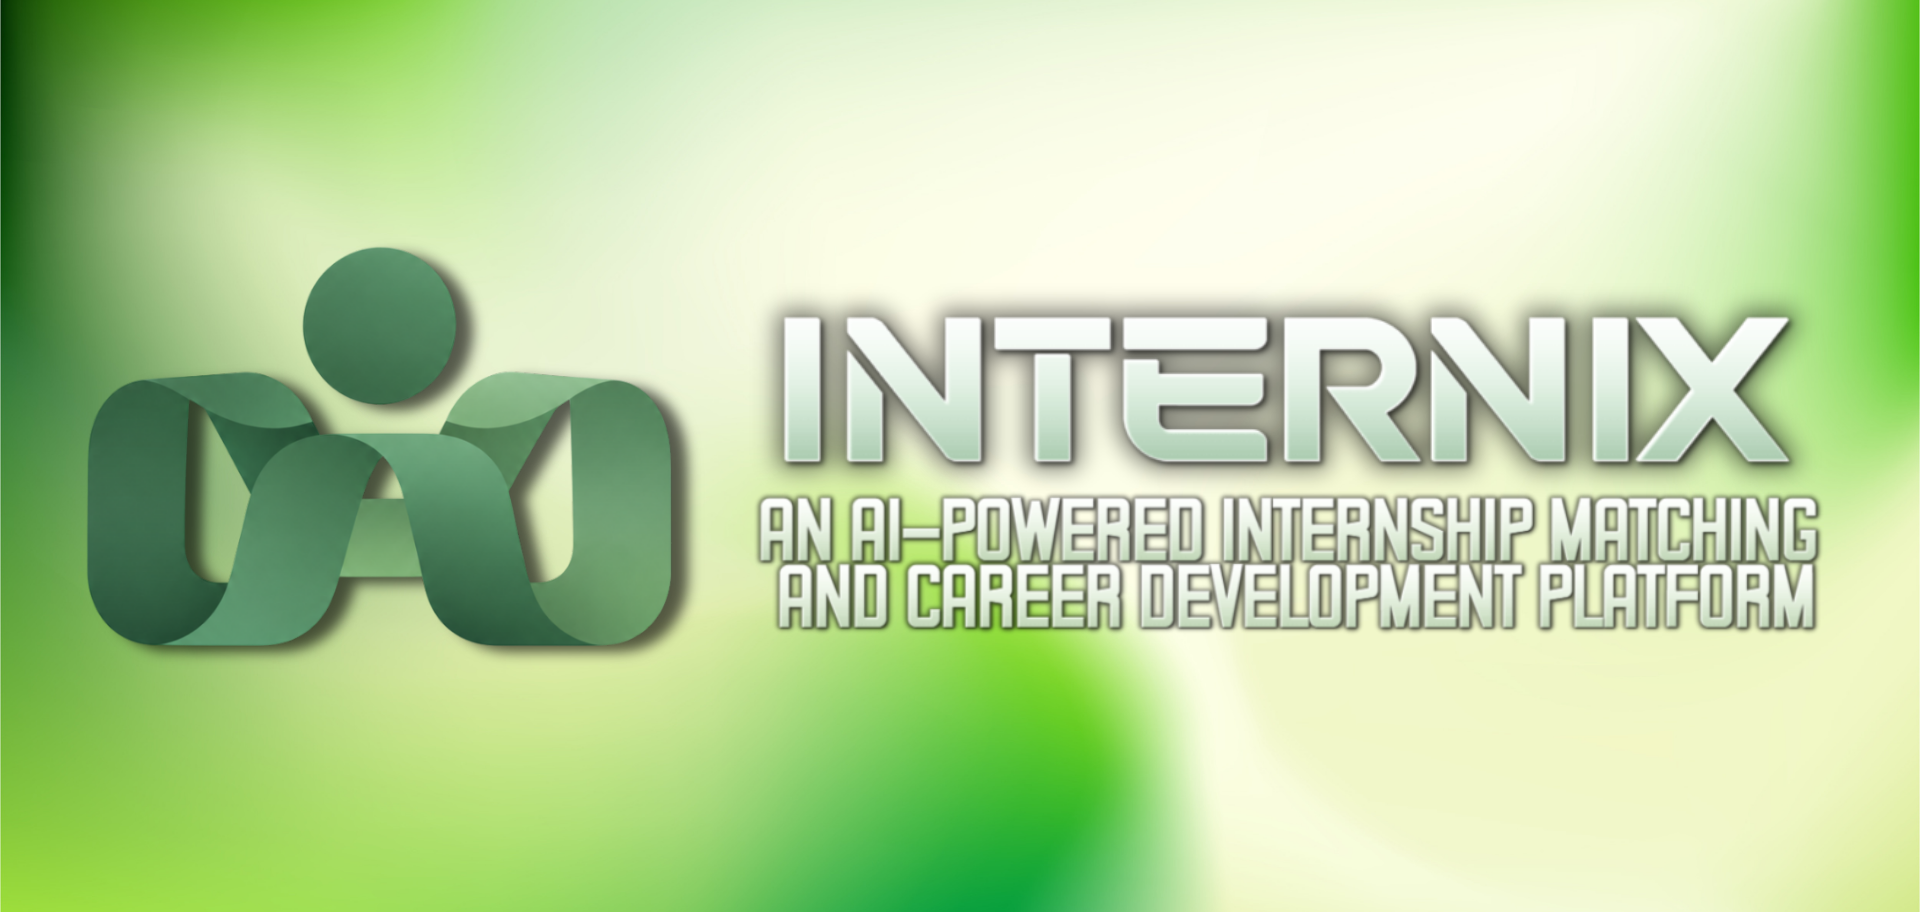
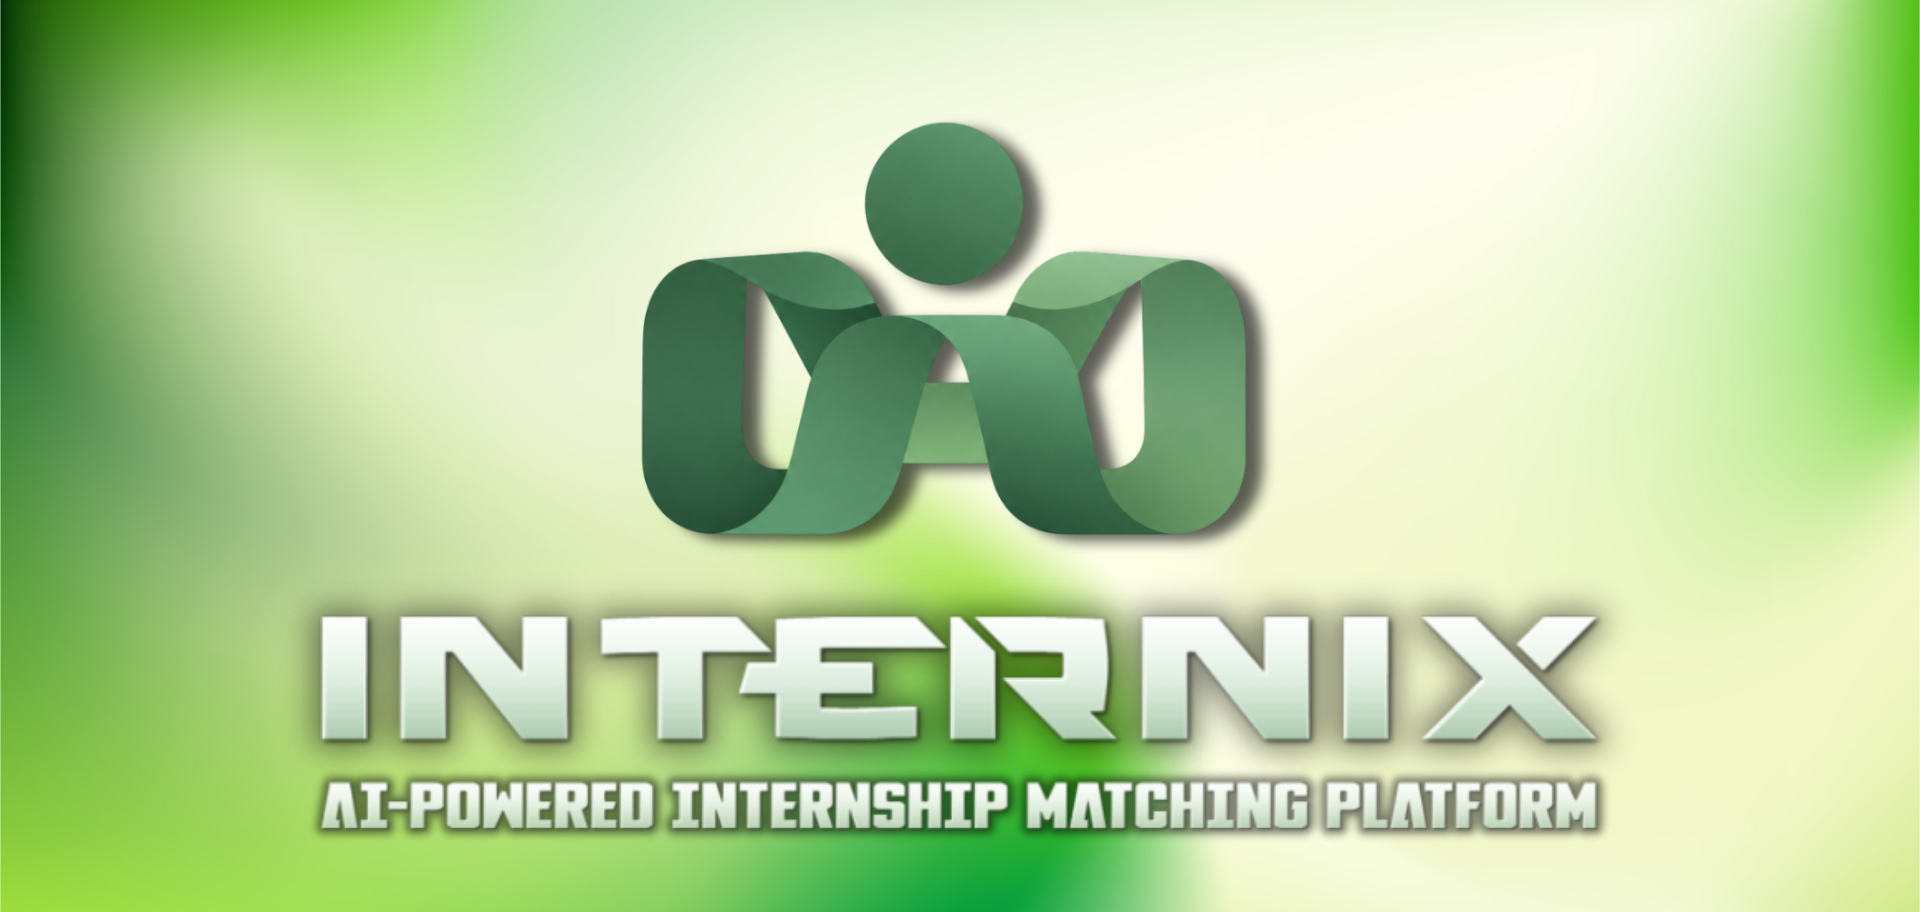
Update website portfolio

diff --git a/src/app/data.ts b/src/app/data.ts
@@ -20,9 +20,10 @@ import pubmat7 from "../imports/PUBMATS_(38).png";
 import pubmat8 from "../imports/PUBMATS_(19).png";
 import pubmat9 from "../imports/ayos_lang..._(9).png";
 import pubmat10 from "../imports/man_up_speak_up_(2).png";
-import learnixImg from "../imports/learnix.png";
+import learnixImg from "../imports/LEARNIX.png";
 import learnixProjectImg from "../imports/learnix_image.png";
 import internixImg from "../imports/internix.png";
+import internixCapImg from "../imports/INTERNIX.png";
 import womensMonthImg from "../imports/womens-month.png";
 import infographicsImg from "../imports/infographics.png";
 import salesTrainingCertImg from "../imports/sales-training-certificate.png";
@@ -55,7 +56,7 @@ export const projects: Project[] = [
     category: "AI-Powered Learning Platform",
     description: "Learnix is an AI-powered learning and reviewer platform designed to help students transform their learning materials into organized reviewers, notes, quizzes, and examinations.",
     technologies: ["React", "TypeScript", "AI", "Supabase"],
-    image: learnixProjectImg,
+    image: learnixImg,
     liveUrl: "https://learnix-29i44ukrq-matt-e31f.vercel.app",
     githubUrl: "https://github.com/strwbiezxcv-matt/Learnix.git",
     liveLabel: "LIVE",
@@ -68,7 +69,7 @@ export const projects: Project[] = [
     category: "Internship Platform",
     description: "Internix is a platform designed to streamline the internship application and management process, helping students discover curated opportunities while enabling organizations to efficiently track and evaluate candidates.",
     technologies: ["React", "TypeScript", "Supabase"],
-    image: internixImg,
+    image: internixCapImg,
     liveUrl: "https://internix-h8u02klz0-matt-e31f.vercel.app",
     githubUrl: "https://github.com/strwbiezxcv-matt/Internix.git",
     liveLabel: "LIVE",
